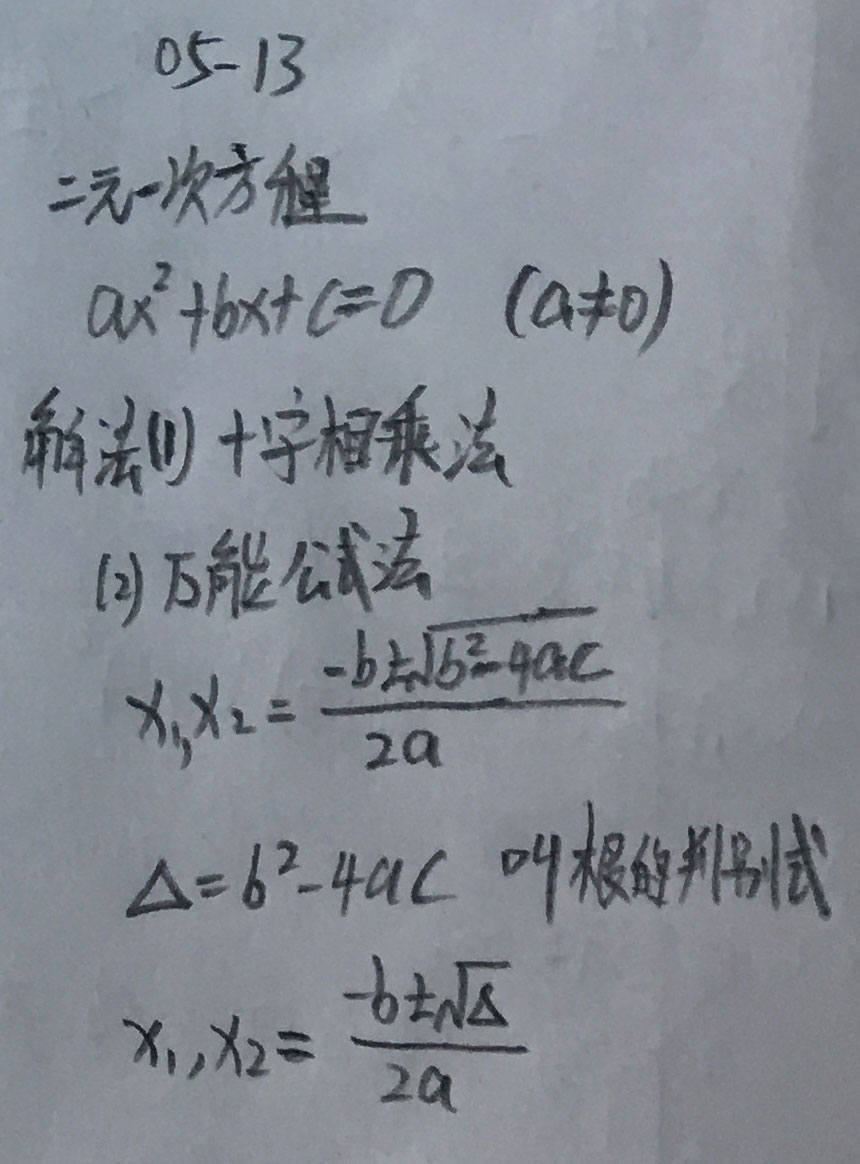
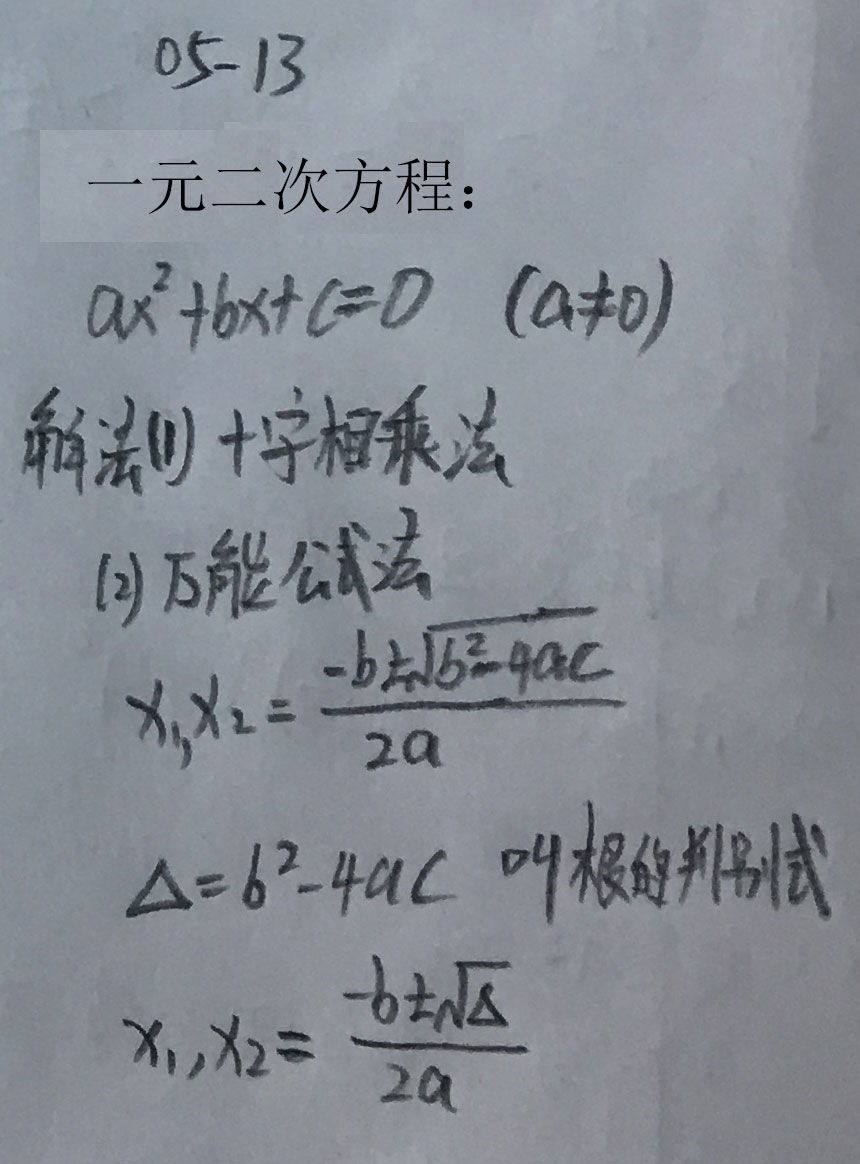
add contents

Changed region(s): [[0.0605, 0.1237, 0.5442, 0.2165]]

diff --git a/content/考研数学-初数基础整理05.md b/content/考研数学-初数基础整理05.md
@@ -1,0 +1,153 @@
+### __指数函数__
+
+<div align=center>
+  <img width="350" src="../pics/05-01.jpg"/>
+</div>
+<br>
+
+### __指数函数比较大小__
+
+__05-02：比较大小相关例题__<br>
+
+<div align=center>
+  <img width="350" src="../pics/05-02.jpg"/>
+</div>
+<br>
+
+
+__05-03：比较大小相关例题__<br>
+
+<div align=center>
+  <img width="350" src="../pics/05-03.jpg"/>
+</div>
+<br>
+
+### __对数函数__
+
+__05-04：引入对数函数__<br>
+<div align=center>
+  <img width="350" src="../pics/05-04.jpg"/>
+</div>
+<br>
+
+__05-05：对数函数的研究范围：__<br>
+<div align=center>
+  <img width="350" src="../pics/05-05.jpg"/>
+</div>
+<br>
+
+__05-06：对数函数相关例题：__<br>
+<div align=center>
+  <img width="350" src="../pics/05-06.jpg"/>
+</div>
+<br>
+
+__05-07：对数函数的换底运算：__<br>
+<div align=center>
+  <img width="350" src="../pics/05-07.jpg"/>
+</div>
+<br>
+
+__05-08：对数函数相关例题：__<br>
+<div align=center>
+  <img width="350" src="../pics/05-08.jpg"/>
+</div>
+<br>
+
+__05-09：对数函数的比较大小：__<br>
+<div align=center>
+  <img width="350" src="../pics/05-09.jpg"/>
+</div>
+<br>
+
+### __方程__
+
+__05-10：一元一次方程和二元一次方程组：__<br>
+<div align=center>
+  <img width="350" src="../pics/05-10.jpg"/>
+</div>
+<br>
+
+__05-11：解二元一次方程组分析：__<br>
+<div align=center>
+  <img width="350" src="../pics/05-11.jpg"/>
+</div>
+<br>
+
+__05-12：解二元一次方程组例题：__<br>
+<div align=center>
+  <img width="350" src="../pics/05-12.jpg"/>
+</div>
+<br>
+
+__05-13：一元二次方程的求根公式：__<br>
+<div align=center>
+  <img width="350" src="../pics/05-13.jpg"/>
+</div>
+<br>
+
+__05-14：方程与函数之间的关系：__<br>
+<div align=center>
+  <img width="350" src="../pics/05-14.jpg"/>
+</div>
+<br>
+
+__05-15：根与系数之间的关系：__<br>
+<div align=center>
+  <img width="350" src="../pics/05-15.jpg"/>
+</div>
+<br>
+
+__05-16：韦达定理相关例题：__<br>
+<div align=center>
+  <img width="350" src="../pics/05-16.jpg"/>
+</div>
+<br>
+
+__05-17：一元二次方程组公共根例题：__<br>
+<div align=center>
+  <img width="350" src="../pics/05-17.jpg"/>
+</div>
+<br>
+
+__05-18：一元二次方程组的公共根问题：__<br>
+<div align=center>
+  <img width="350" src="../pics/05-18.jpg"/>
+</div>
+<br>
+
+__05-19：关于一些不等式的性质：__<br>
+<div align=center>
+  <img width="350" src="../pics/05-19.jpg"/>
+</div>
+<br>
+
+__05-20：关于一元一次不等式：__<br>
+<div align=center>
+  <img width="350" src="../pics/05-20.jpg"/>
+</div>
+<br>
+
+__05-21：关于一元一次不等式的解集：__<br>
+<div align=center>
+  <img width="350" src="../pics/05-21.jpg"/>
+</div>
+<br>
+
+__05-22：关于一元二次不等式的解：__<br>
+<div align=center>
+  <img width="350" src="../pics/05-22.jpg"/>
+</div>
+<br>
+
+__05-23：关于一元二次不等式恒成立问题：__<br>
+<div align=center>
+  <img width="350" src="../pics/05-23.jpg"/>
+</div>
+<br>
+
+__05-24：关于一元二次不等式相关例题：__<br>
+<div align=center>
+  <img width="350" src="../pics/05-24.jpg"/>
+</div>
+<br>
